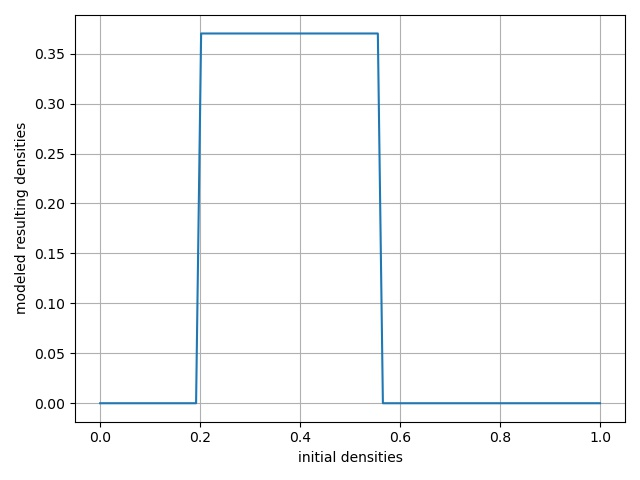
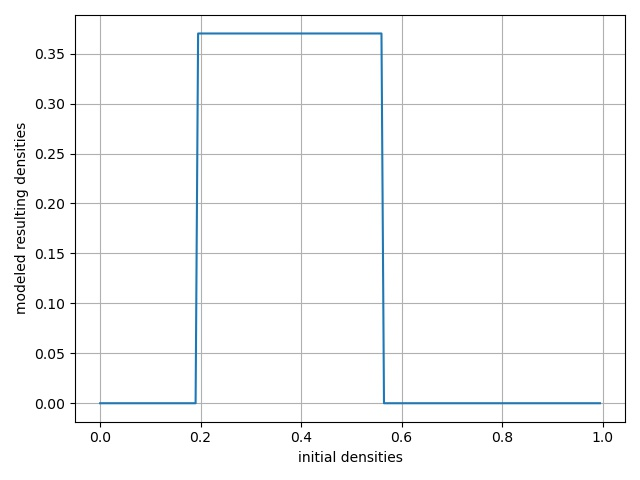
Changed some images to fit the text in the README.

diff --git a/statistical_analysis/statistical_analysis.py b/statistical_analysis/statistical_analysis.py
@@ -104,7 +104,7 @@ number_of_time_steps_model = 15
 # List of all the time steps.
 time_steps = range(number_of_time_steps_model)
 # Starting densities which will be fed to the model.
-initial_densities = np.linspace(0, 1, num=100)
+initial_densities = np.arange(0, 1, 0.005)
 # Resulting time evolutions.
 densities_time_evolution = np.array([evolve_modeled_density(density, number_of_time_steps_model)
                                      for density in initial_densities])
